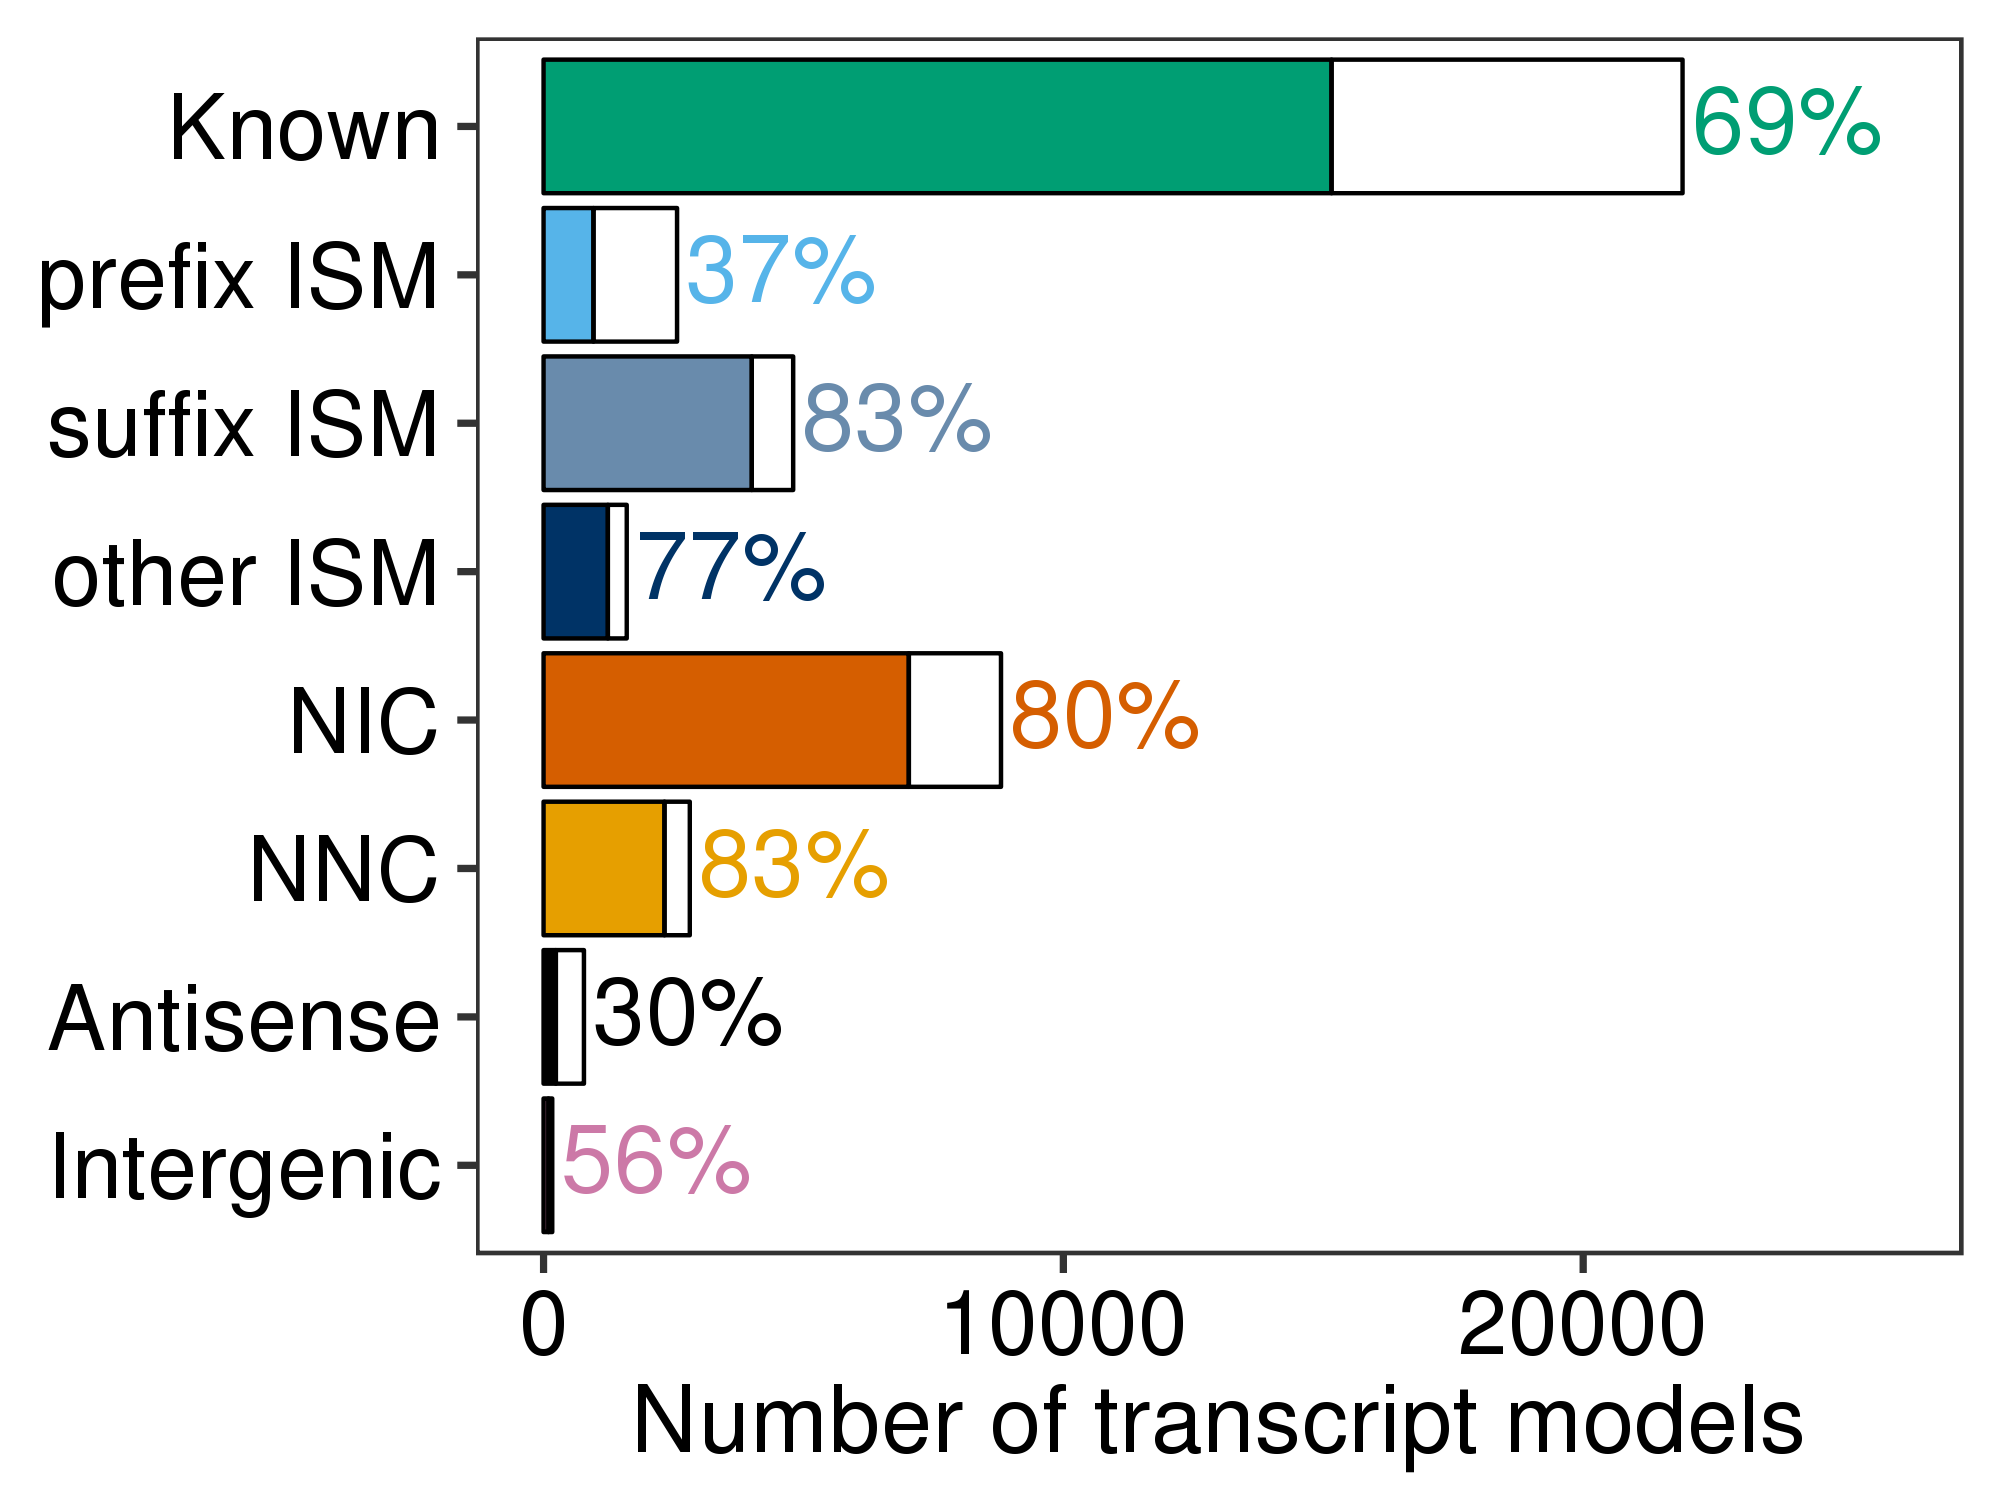
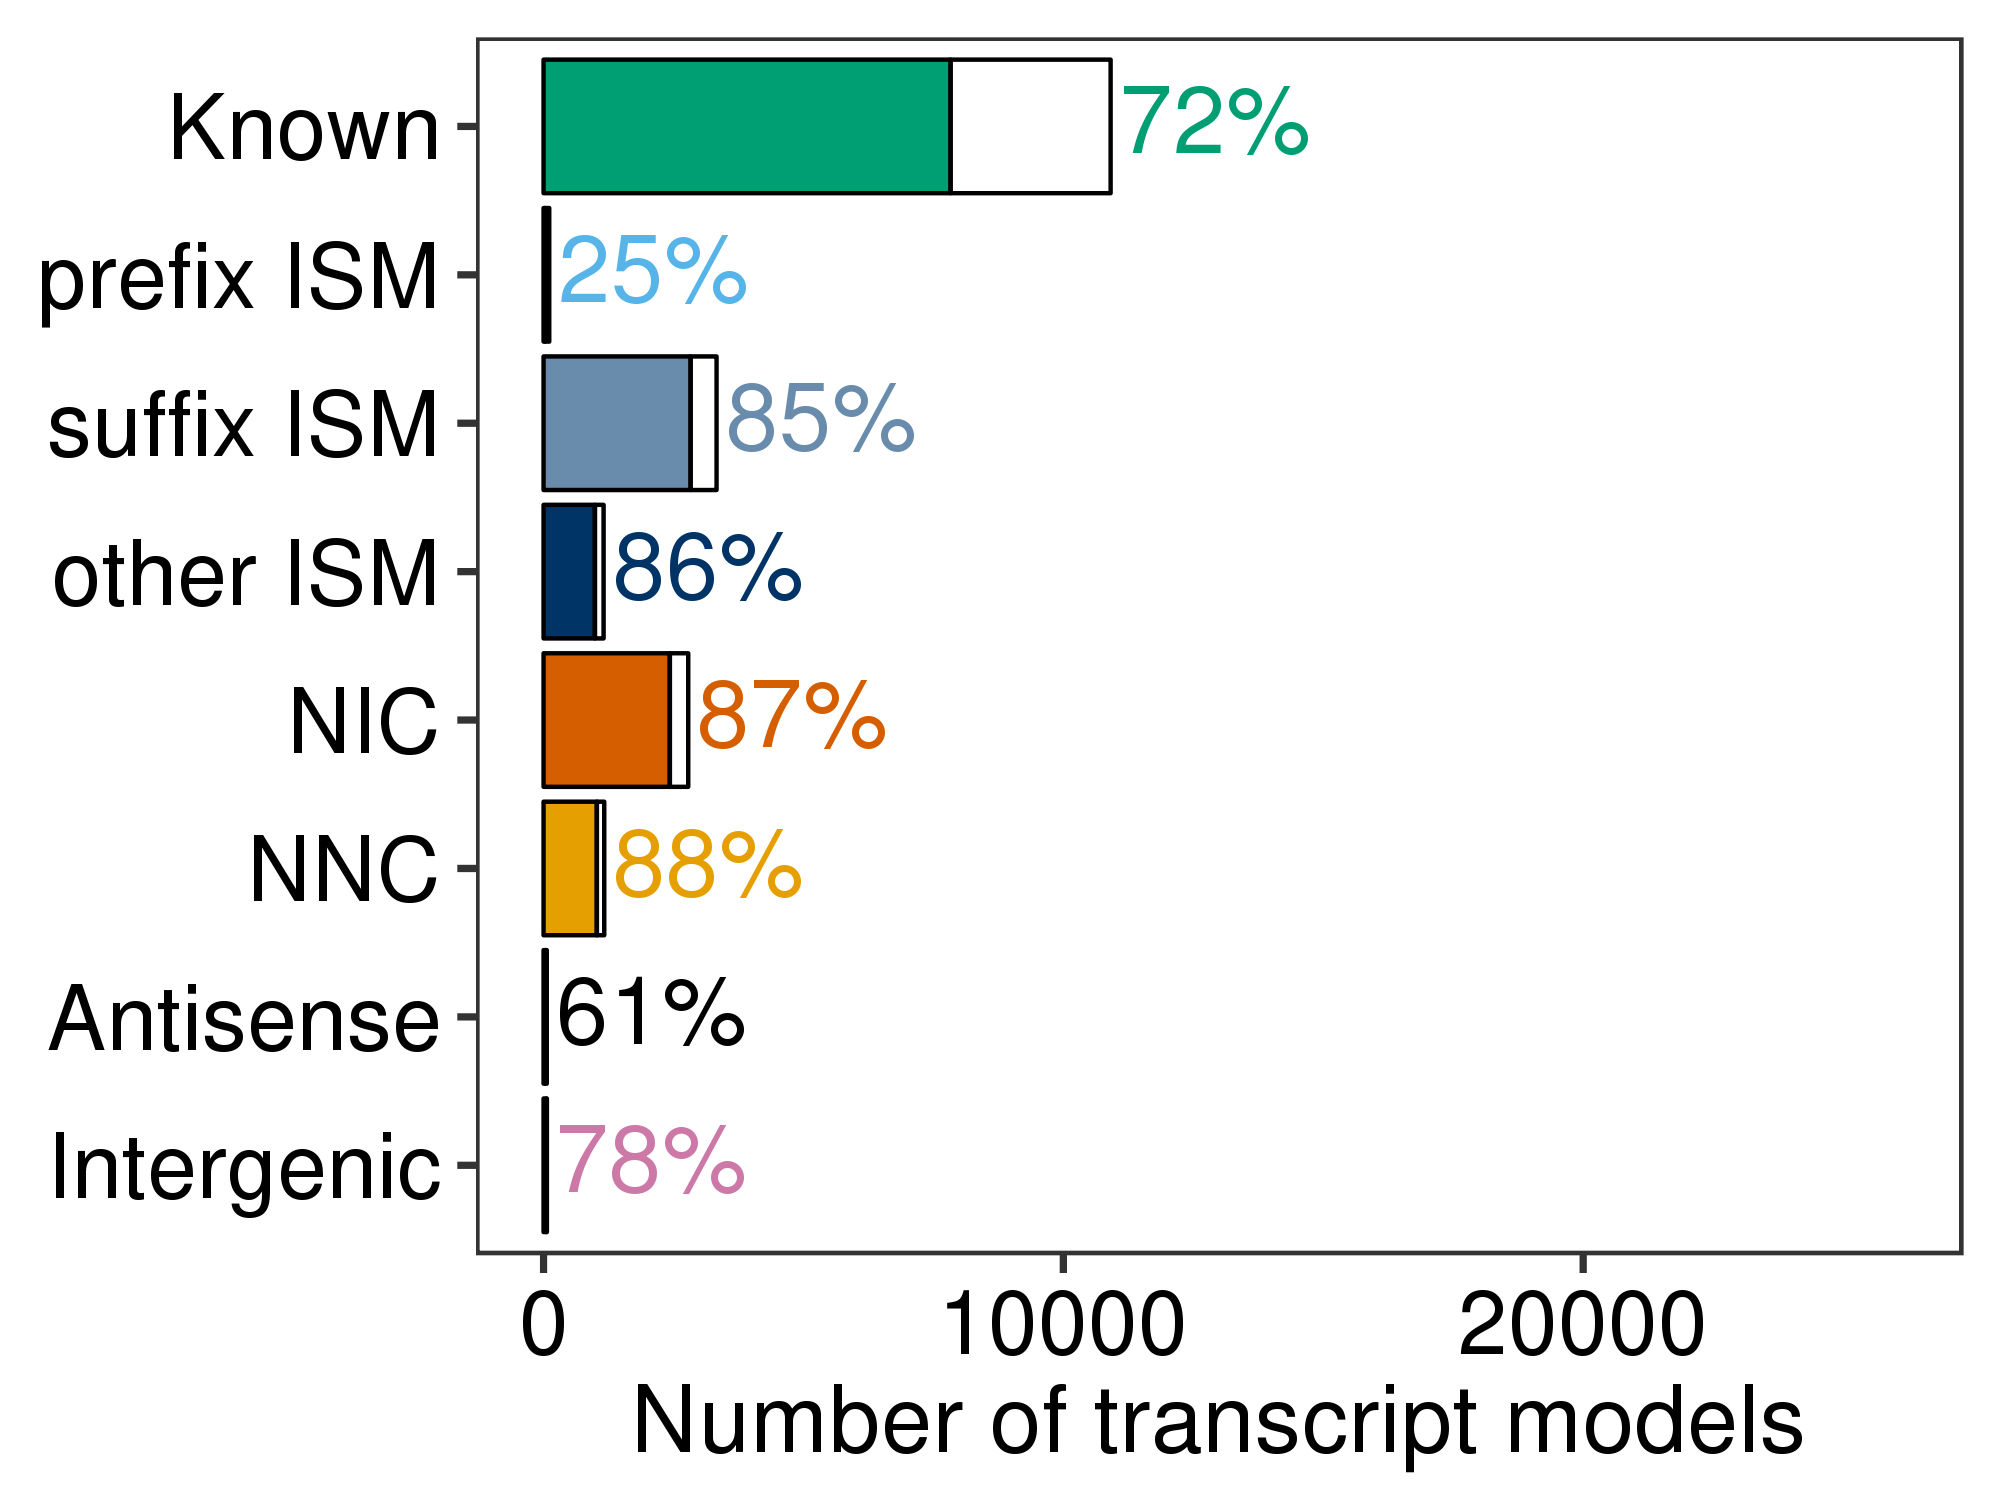
Fixed typos in PAS cmds

Changed region(s): [[0.248, 0.1227, 0.589, 0.7973], [0.465, 0.0307, 0.93, 0.1533]]

diff --git a/Supplemental_Figures/README.md b/Supplemental_Figures/README.md
@@ -648,7 +648,7 @@ source activate mypython3.7.2
 OUT=figures/S18/PacBio_K562/PAS
 mkdir -p ${OUT}
 python ../PAS-computational/run_computational_PAS_analysis.py \
-        --gtf ${pb_hepg2_gtf} \
+        --gtf ${pb_k562_gtf} \
         --genome ${genome} \
         --maxdist 35 \
         --o ${OUT}/K562_PacBio
@@ -670,7 +670,7 @@ source activate mypython3.7.2
 OUT=figures/S18/ONT_HepG2/PAS
 mkdir -p ${OUT}
 python ../PAS-computational/run_computational_PAS_analysis.py \
-        --gtf ${pb_hepg2_gtf} \
+        --gtf ${ont_hepg2_gtf} \
         --genome ${genome} \
         --maxdist 35 \
         --o ${OUT}/HepG2_ONT
@@ -691,7 +691,7 @@ source activate mypython3.7.2
 OUT=figures/S18/ONT_K562/PAS
 mkdir -p ${OUT}
 python ../PAS-computational/run_computational_PAS_analysis.py \
-        --gtf ${pb_hepg2_gtf} \
+        --gtf ${ont_k562_gtf} \
         --genome ${genome} \
         --maxdist 35 \
         --o ${OUT}/K562_ONT
